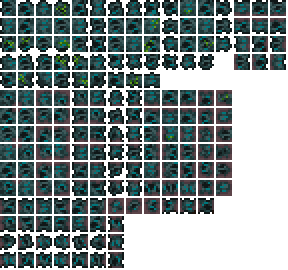
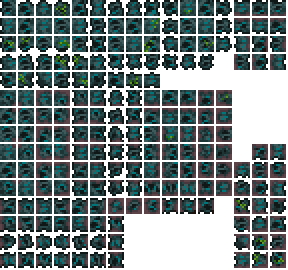
Baryte

Changed region(s): [[0.8125, 0.5333, 1.0, 1.0]]

diff --git a/Misc.cs b/Misc.cs
@@ -3841,6 +3841,7 @@ namespace Origins {
 			get {
 				Point right = new(1, 0);
 				Point down = new(0, 1);
+				Point single = new(0, 0);
 				const int NONE = -1;
 				const int ROCK = 1;
 				const int _MUD = 2;
@@ -3914,7 +3915,28 @@ namespace Origins {
 					(new(NONE, _MUD, NONE, ROCK), new Point(0, 3), new Point(2, 0)),
 					(new(NONE, _MUD, ROCK, NONE), new Point(1, 3), new Point(2, 0)),
 					(new(_MUD, NONE, NONE, ROCK), new Point(0, 4), new Point(2, 0)),
-					(new(_MUD, NONE, ROCK, NONE), new Point(1, 4), new Point(2, 0))
+					(new(_MUD, NONE, ROCK, NONE), new Point(1, 4), new Point(2, 0)),
+
+					(new(_MUD, NONE, _MUD, _MUD), new Point(14, 8), single),
+					(new(ROCK, NONE, _MUD, _MUD), new Point(15, 8), single),
+					(new(_MUD, NONE, _MUD, ROCK), new Point(13, 9), single),
+					(new(NONE, ROCK, _MUD, _MUD), new Point(14, 9), single),
+					(new(NONE, _MUD, _MUD, _MUD), new Point(15, 9), single),
+					(new(NONE, _MUD, _MUD, ROCK), new Point(13, 10), single),
+					(new(_MUD, _MUD, _MUD, NONE), new Point(14, 10), single),
+					(new(_MUD, ROCK, _MUD, NONE), new Point(15, 10), single),
+					(new(NONE, _MUD, _MUD, NONE), new Point(13, 11), single),
+					(new(ROCK, _MUD, _MUD, NONE), new Point(14, 11), single),
+					(new(_MUD, NONE, _MUD, NONE), new Point(15, 11), single),
+					(new(_MUD, NONE, ROCK, _MUD), new Point(13, 12), single),
+					(new(NONE, _MUD, ROCK, _MUD), new Point(14, 12), single),
+					(new(_MUD, _MUD, ROCK, NONE), new Point(15, 12), single),
+					(new(_MUD, NONE, NONE, _MUD), new Point(13, 13), single),
+					(new(_MUD, ROCK, NONE, _MUD), new Point(14, 13), single),
+					(new(_MUD, _MUD, NONE, _MUD), new Point(15, 13), single),
+					(new(_MUD, _MUD, NONE, ROCK), new Point(13, 14), single),
+					(new(NONE, _MUD, NONE, _MUD), new Point(14, 14), single),
+					(new(ROCK, _MUD, NONE, _MUD), new Point(15, 14), single),
 				];
 			}
 		}
